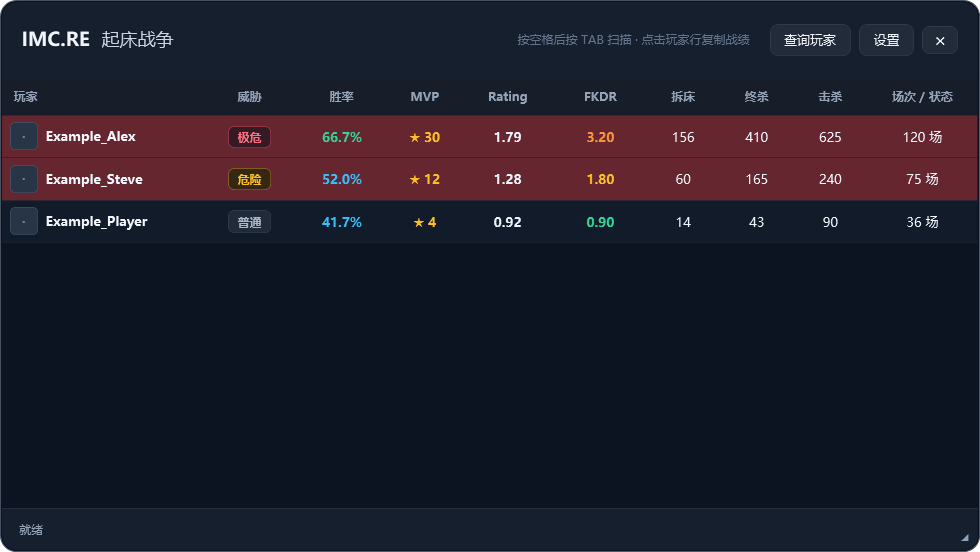
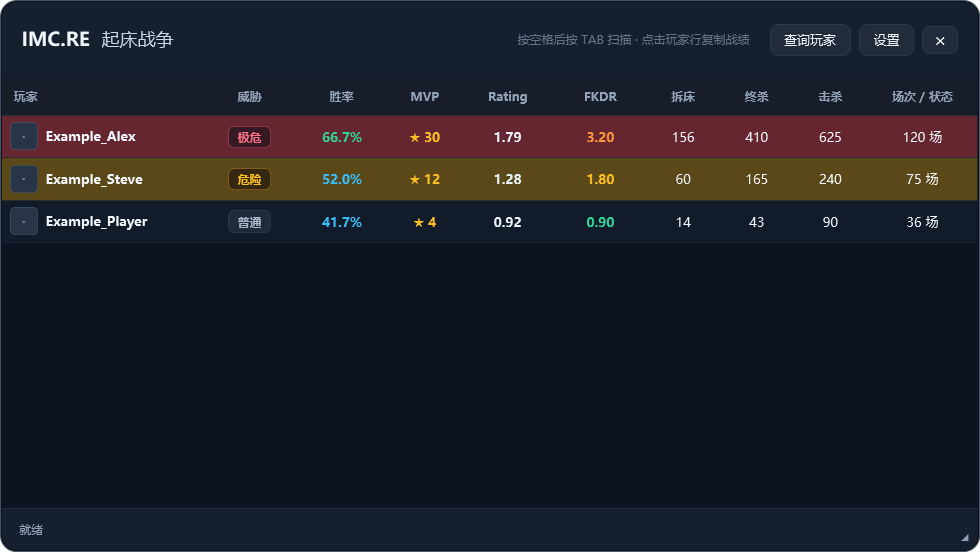
Color player rows by rating tier

Changed region(s): [[0.0, 0.2772, 1.0, 0.3696]]

diff --git a/MainWindow.xaml b/MainWindow.xaml
@@ -13,7 +13,7 @@
     <SolidColorBrush x:Key="Dim" Color="#64748B"/><SolidColorBrush x:Key="Green" Color="#34D399"/>
     <SolidColorBrush x:Key="Blue" Color="#38BDF8"/><SolidColorBrush x:Key="Amber" Color="#FBBF24"/>
     <Style TargetType="Button"><Setter Property="Foreground" Value="{StaticResource Text}"/><Setter Property="Background" Value="#222B3A"/><Setter Property="BorderBrush" Value="#344155"/><Setter Property="BorderThickness" Value="1"/><Setter Property="Padding" Value="14,7"/><Setter Property="FontSize" Value="13"/><Setter Property="Cursor" Value="Hand"/><Setter Property="Template"><Setter.Value><ControlTemplate TargetType="Button"><Border x:Name="b" Background="{TemplateBinding Background}" BorderBrush="{TemplateBinding BorderBrush}" BorderThickness="{TemplateBinding BorderThickness}" CornerRadius="8" Padding="{TemplateBinding Padding}"><ContentPresenter HorizontalAlignment="Center" VerticalAlignment="Center"/></Border><ControlTemplate.Triggers><Trigger Property="IsMouseOver" Value="True"><Setter TargetName="b" Property="Background" Value="#2A3648"/><Setter TargetName="b" Property="BorderBrush" Value="#50627B"/></Trigger><Trigger Property="IsPressed" Value="True"><Setter TargetName="b" Property="Opacity" Value=".8"/></Trigger></ControlTemplate.Triggers></ControlTemplate></Setter.Value></Setter></Style>
-    <Style TargetType="DataGrid"><Setter Property="Background" Value="Transparent"/><Setter Property="Foreground" Value="{StaticResource Text}"/><Setter Property="BorderThickness" Value="0"/><Setter Property="HeadersVisibility" Value="Column"/><Setter Property="GridLinesVisibility" Value="None"/><Setter Property="RowHeight" Value="42"/><Setter Property="ColumnHeaderHeight" Value="38"/><Setter Property="CanUserAddRows" Value="False"/><Setter Property="CanUserResizeRows" Value="False"/><Setter Property="SelectionUnit" Value="FullRow"/><Setter Property="SelectionMode" Value="Single"/><Setter Property="AlternationCount" Value="2"/><Setter Property="RowBackground" Value="#111B29"/><Setter Property="AlternatingRowBackground" Value="#0E1825"/><Setter Property="ColumnHeaderStyle"><Setter.Value><Style TargetType="DataGridColumnHeader"><Setter Property="Background" Value="#171D29"/><Setter Property="Foreground" Value="#94A3B8"/><Setter Property="FontWeight" Value="SemiBold"/><Setter Property="FontSize" Value="12"/><Setter Property="Padding" Value="4,0"/><Setter Property="HorizontalContentAlignment" Value="Center"/><Setter Property="VerticalContentAlignment" Value="Center"/><Setter Property="BorderThickness" Value="0,0,0,1"/><Setter Property="BorderBrush" Value="#2B3546"/></Style></Setter.Value></Setter><Setter Property="CellStyle"><Setter.Value><Style TargetType="DataGridCell"><Setter Property="BorderThickness" Value="0"/><Setter Property="Padding" Value="4,0"/><Setter Property="HorizontalContentAlignment" Value="Stretch"/><Setter Property="VerticalContentAlignment" Value="Center"/><Setter Property="FocusVisualStyle" Value="{x:Null}"/><Style.Triggers><Trigger Property="IsSelected" Value="True"><Setter Property="Background" Value="#253348"/><Setter Property="Foreground" Value="{StaticResource Text}"/></Trigger><MultiDataTrigger><MultiDataTrigger.Conditions><Condition Binding="{Binding IsSelected, RelativeSource={RelativeSource Self}}" Value="True"/><Condition Binding="{Binding IsHighRating}" Value="True"/></MultiDataTrigger.Conditions><Setter Property="Background" Value="#87343D"/></MultiDataTrigger></Style.Triggers></Style></Setter.Value></Setter><Setter Property="RowStyle"><Setter.Value><Style TargetType="DataGridRow"><Setter Property="Foreground" Value="{StaticResource Text}"/><Setter Property="BorderThickness" Value="0,0,0,1"/><Setter Property="BorderBrush" Value="#202938"/><Setter Property="Cursor" Value="Hand"/><Setter Property="ToolTip" Value="{Binding Error}"/><Style.Triggers><Trigger Property="IsMouseOver" Value="True"><Setter Property="Background" Value="#1D3041"/></Trigger><DataTrigger Binding="{Binding IsHighRating}" Value="True"><Setter Property="Background" Value="#652630"/></DataTrigger></Style.Triggers></Style></Setter.Value></Setter></Style>
+    <Style TargetType="DataGrid"><Setter Property="Background" Value="Transparent"/><Setter Property="Foreground" Value="{StaticResource Text}"/><Setter Property="BorderThickness" Value="0"/><Setter Property="HeadersVisibility" Value="Column"/><Setter Property="GridLinesVisibility" Value="None"/><Setter Property="RowHeight" Value="42"/><Setter Property="ColumnHeaderHeight" Value="38"/><Setter Property="CanUserAddRows" Value="False"/><Setter Property="CanUserResizeRows" Value="False"/><Setter Property="SelectionUnit" Value="FullRow"/><Setter Property="SelectionMode" Value="Single"/><Setter Property="AlternationCount" Value="2"/><Setter Property="RowBackground" Value="#111B29"/><Setter Property="AlternatingRowBackground" Value="#0E1825"/><Setter Property="ColumnHeaderStyle"><Setter.Value><Style TargetType="DataGridColumnHeader"><Setter Property="Background" Value="#171D29"/><Setter Property="Foreground" Value="#94A3B8"/><Setter Property="FontWeight" Value="SemiBold"/><Setter Property="FontSize" Value="12"/><Setter Property="Padding" Value="4,0"/><Setter Property="HorizontalContentAlignment" Value="Center"/><Setter Property="VerticalContentAlignment" Value="Center"/><Setter Property="BorderThickness" Value="0,0,0,1"/><Setter Property="BorderBrush" Value="#2B3546"/></Style></Setter.Value></Setter><Setter Property="CellStyle"><Setter.Value><Style TargetType="DataGridCell"><Setter Property="BorderThickness" Value="0"/><Setter Property="Padding" Value="4,0"/><Setter Property="HorizontalContentAlignment" Value="Stretch"/><Setter Property="VerticalContentAlignment" Value="Center"/><Setter Property="FocusVisualStyle" Value="{x:Null}"/><Style.Triggers><Trigger Property="IsSelected" Value="True"><Setter Property="Background" Value="#253348"/><Setter Property="Foreground" Value="{StaticResource Text}"/></Trigger><MultiDataTrigger><MultiDataTrigger.Conditions><Condition Binding="{Binding IsSelected, RelativeSource={RelativeSource Self}}" Value="True"/><Condition Binding="{Binding IsHighRating}" Value="True"/></MultiDataTrigger.Conditions><Setter Property="Background" Value="#87343D"/></MultiDataTrigger><MultiDataTrigger><MultiDataTrigger.Conditions><Condition Binding="{Binding IsSelected, RelativeSource={RelativeSource Self}}" Value="True"/><Condition Binding="{Binding IsWarningRating}" Value="True"/></MultiDataTrigger.Conditions><Setter Property="Background" Value="#806321"/></MultiDataTrigger></Style.Triggers></Style></Setter.Value></Setter><Setter Property="RowStyle"><Setter.Value><Style TargetType="DataGridRow"><Setter Property="Foreground" Value="{StaticResource Text}"/><Setter Property="BorderThickness" Value="0,0,0,1"/><Setter Property="BorderBrush" Value="#202938"/><Setter Property="Cursor" Value="Hand"/><Setter Property="ToolTip" Value="{Binding Error}"/><Style.Triggers><Trigger Property="IsMouseOver" Value="True"><Setter Property="Background" Value="#1D3041"/></Trigger><DataTrigger Binding="{Binding IsHighRating}" Value="True"><Setter Property="Background" Value="#652630"/></DataTrigger><DataTrigger Binding="{Binding IsWarningRating}" Value="True"><Setter Property="Background" Value="#5B4819"/></DataTrigger></Style.Triggers></Style></Setter.Value></Setter></Style>
   </Window.Resources>
   <Viewbox Stretch="Fill"><Border Width="980" Height="552" Background="{StaticResource Bg}" BorderBrush="#354155" BorderThickness="1" CornerRadius="16" Padding="1">
     <Grid x:Name="Root" ClipToBounds="True">

diff --git a/PlayerStats.cs b/PlayerStats.cs
@@ -46,8 +46,10 @@ public sealed class PlayerRow : INotifyPropertyChanged
     public string State { get => _state; set { _state = value; Changed(); Changed(nameof(MatchesLabel)); } }
     public string Error { get => _error; set { _error = value; Changed(); Changed(nameof(MatchesLabel)); } }
     public double? OverallRating => State != "ok" ? null : GameMode == "counterember" ? Rating : BedwarsRatingCalculator.Calculate(Matches, WinRate, Fkdr, AvgBeds);
-    public bool IsHighRating => OverallRating is double rating && Math.Round(rating, 2, MidpointRounding.ToEven) > 1.0;
-    public string ThreatLabel => OverallRating is not double value ? "—" : value >= 1.35 ? "极危" : value >= 1.12 ? "危险" : "普通";
+    double? DisplayedRating => OverallRating is double rating && double.IsFinite(rating) ? Math.Round(rating, 2, MidpointRounding.ToEven) : null;
+    public bool IsHighRating => DisplayedRating >= 1.35;
+    public bool IsWarningRating => DisplayedRating >= 1.12 && DisplayedRating < 1.35;
+    public string ThreatLabel => DisplayedRating is null ? "—" : IsHighRating ? "极危" : IsWarningRating ? "危险" : "普通";
     public string WinRateLabel => State == "ok" ? WinRate.ToString("P1") : "—"; public string FkdrLabel => State == "ok" ? Fkdr.ToString("F2") : "—";
     public string WinRateColor => State != "ok" ? "#64748B" : WinRate >= .60 ? "#34D399" : WinRate >= .40 ? "#38BDF8" : "#A8B6C9";
     public string FkdrColor => State != "ok" ? "#64748B" : Fkdr >= 4 ? "#FB7185" : Fkdr >= 2.5 ? "#FB923C" : Fkdr >= 1.5 ? "#FBBF24" : Fkdr >= .8 ? "#34D399" : "#A8B6C9";
@@ -58,7 +60,7 @@ public sealed class PlayerRow : INotifyPropertyChanged
     public string MVPsLabel => State == "ok" ? (MVPs > 0 ? $"★ {MVPs}" : "0") : "—"; public string BedsLabel => State == "ok" ? BedsBroken.ToString() : "—"; public string FinalsLabel => State == "ok" ? FinalKills.ToString() : "—"; public string KillsLabel => State == "ok" ? Kills.ToString() : "—";
     public string MatchesLabel => State == "ok" ? $"{Matches} 场" : State == "loading" ? "查询中…" : State == "unregistered" ? "无记录" : "查询失败";
     public void CopyFrom(PlayerRow x) { Username=x.Username; GameMode=x.GameMode; Matches=x.Matches; Wins=x.Wins; MVPs=x.MVPs; BedsBroken=x.BedsBroken; FinalKills=x.FinalKills; Kills=x.Kills; WinRate=x.WinRate; Fkdr=x.Fkdr; AvgBeds=x.AvgBeds; KD=x.KD; Rating=x.Rating; Adr=x.Adr; HsRate=x.HsRate; Error=x.Error; State=x.State; Changed(string.Empty); }
-    void Changed(string? name = null) { if (name == null) return; PropertyChanged?.Invoke(this, new PropertyChangedEventArgs(name)); foreach (var p in new[] { nameof(OverallRating), nameof(IsHighRating), nameof(RatingLabel), nameof(RatingInfo), nameof(ThreatLabel), nameof(WinRateLabel), nameof(FkdrLabel), nameof(MatchesLabel), nameof(MVPsLabel), nameof(BedsLabel), nameof(FinalsLabel), nameof(KillsLabel) }) PropertyChanged?.Invoke(this, new PropertyChangedEventArgs(p)); }
+    void Changed(string? name = null) { if (name == null) return; PropertyChanged?.Invoke(this, new PropertyChangedEventArgs(name)); foreach (var p in new[] { nameof(OverallRating), nameof(IsHighRating), nameof(IsWarningRating), nameof(RatingLabel), nameof(RatingInfo), nameof(ThreatLabel), nameof(WinRateLabel), nameof(FkdrLabel), nameof(MatchesLabel), nameof(MVPsLabel), nameof(BedsLabel), nameof(FinalsLabel), nameof(KillsLabel) }) PropertyChanged?.Invoke(this, new PropertyChangedEventArgs(p)); }
 }
 
 public sealed class ApiResponse { public ApiSummary? Summary { get; set; } }

diff --git a/StatsCardRenderer.cs b/StatsCardRenderer.cs
@@ -33,11 +33,11 @@ internal static class StatsCardRenderer
             else Text(dc, "?", 91, 60, 50, "#BACBD9", true);
             Text(dc, "IMC.RE  /  " + (player.GameMode == "counterember" ? "COUNTEREMBER" : "BEDWARS"), 184, 47, 19, "#70D9C1", true);
             Text(dc, player.Username, 182, 76, 39, "#FFFFFF", true, 700);
-            if (player.GameMode == "bedwars") Text(dc, "估算 Rating " + player.RatingLabel + (player.Matches < 10 ? "  ·  场次较少" : ""), 184, 131, 15, player.IsHighRating ? "#FF8790" : "#B7C9D6", false, 600);
+            if (player.GameMode == "bedwars") Text(dc, "估算 Rating " + player.RatingLabel + (player.Matches < 10 ? "  ·  场次较少" : ""), 184, 131, 15, player.IsHighRating ? "#FF8790" : player.IsWarningRating ? "#FFD277" : "#B7C9D6", false, 600);
             Text(dc, "PLAYER STATS", 906, 91, 20, "#B7C9D6", true, 230);
 
             var stats = player.GameMode == "counterember"
-                ? new (string Label, string Value, string Color)[] { ("胜率", player.WinRate.ToString("P1"), "#62E0AE"), ("胜场", player.Wins.ToString(), "#E7F2FA"), ("Rating", player.Rating.ToString("F2"), player.IsHighRating ? "#FF8790" : "#E7F2FA"), ("K/D", player.KD.ToString("F2"), "#FF8C9C"), ("ADR", player.Adr.ToString("F1"), "#71D0FF"), ("爆头率", player.HsRate.ToString("P1"), "#FFB97B"), ("击杀", player.Kills.ToString(), "#E7F2FA"), ("比赛场次", player.Matches.ToString(), "#E7F2FA") }
+                ? new (string Label, string Value, string Color)[] { ("胜率", player.WinRate.ToString("P1"), "#62E0AE"), ("胜场", player.Wins.ToString(), "#E7F2FA"), ("Rating", player.Rating.ToString("F2"), player.IsHighRating ? "#FF8790" : player.IsWarningRating ? "#FFD277" : "#E7F2FA"), ("K/D", player.KD.ToString("F2"), "#FF8C9C"), ("ADR", player.Adr.ToString("F1"), "#71D0FF"), ("爆头率", player.HsRate.ToString("P1"), "#FFB97B"), ("击杀", player.Kills.ToString(), "#E7F2FA"), ("比赛场次", player.Matches.ToString(), "#E7F2FA") }
                 : new (string Label, string Value, string Color)[] { ("胜率", player.WinRate.ToString("P1"), "#62E0AE"), ("胜场", player.Wins.ToString(), "#E7F2FA"), ("FKDR", player.Fkdr.ToString("F2"), "#FF8C9C"), ("MVP", player.MVPs.ToString(), "#FFD277"), ("拆床", player.BedsBroken.ToString(), "#71D0FF"), ("终杀", player.FinalKills.ToString(), "#FFB97B"), ("击杀", player.Kills.ToString(), "#E7F2FA"), ("比赛场次", player.Matches.ToString(), "#E7F2FA") };
             for (int i = 0; i < stats.Length; i++)
             {

diff --git a/tests/Overlay.Checks/Program.cs b/tests/Overlay.Checks/Program.cs
@@ -69,9 +69,16 @@ internal static class Program
         var b = new PlayerRow { State = "ok", Matches = 20, WinRate = .5, Fkdr = 1, AvgBeds = .5, BedsBroken = 1000 };
         Check(a.OverallRating == b.OverallRating, "total beds must not inflate rating");
         Check(new PlayerRow { State = "ok", GameMode = "counterember", Rating = 1.77 }.OverallRating == 1.77, "CE rating must stay official");
-        Check(!new PlayerRow { State = "ok", GameMode = "counterember", Rating = 1.0 }.IsHighRating, "rating 1.00 must not be highlighted");
-        Check(new PlayerRow { State = "ok", GameMode = "counterember", Rating = 1.01 }.IsHighRating, "rating above 1.00 must be highlighted");
-        Check(!new PlayerRow { State = "ok", GameMode = "counterember", Rating = 1.004 }.IsHighRating, "a rating displayed as 1.00 must not be highlighted");
+        var ordinary = new PlayerRow { State = "ok", GameMode = "counterember", Rating = 1.11 };
+        var warning = new PlayerRow { State = "ok", GameMode = "counterember", Rating = 1.12 };
+        var high = new PlayerRow { State = "ok", GameMode = "counterember", Rating = 1.35 };
+        var rounded = new PlayerRow { State = "ok", GameMode = "counterember", Rating = 1.346 };
+        var roundedDown = new PlayerRow { State = "ok", GameMode = "counterember", Rating = 1.344 };
+        Check(!ordinary.IsHighRating && !ordinary.IsWarningRating && ordinary.ThreatLabel == "普通", "1.11 must be ordinary");
+        Check(!warning.IsHighRating && warning.IsWarningRating && warning.ThreatLabel == "危险", "1.12 must be warning");
+        Check(high.IsHighRating && !high.IsWarningRating && high.ThreatLabel == "极危", "1.35 must be high");
+        Check(rounded.RatingLabel == "1.35" && rounded.IsHighRating && rounded.ThreatLabel == "极危", "highlight and label must follow displayed rounding");
+        Check(roundedDown.RatingLabel == "1.34" && roundedDown.IsWarningRating, "1.34 must remain warning");
         Check(!new PlayerRow { State = "loading", GameMode = "counterember", Rating = 3 }.IsHighRating, "loading players must not be highlighted");
         Check(!a.IsHighRating && b.OverallRating == 1.0, "neutral BW rating must not be highlighted");
     }

diff --git a/README.md b/README.md
@@ -41,9 +41,9 @@ $$
 
 其中 `R` 就是最终显示的 Rating。
 
-少于 10 场时数字后显示 `*`，提示样本不足；无对局时不显示评分。威胁标签使用估算值分级：1.35 及以上为「极危」、1.12 至 1.35 以下为「危险」，其他为「普通」。累计拆床数不直接提高评分。
+少于 10 场时数字后显示 `*`，提示样本不足；无对局时不显示评分。威胁标签按显示到小数点后两位的估算值分级：1.35 及以上为「极危」、1.12 至 1.34 为「危险」，其他为「普通」。累计拆床数不直接提高评分。
 
-当显示到小数点后两位的有效 Rating 严格大于 1.00 时，玩家整行会显示红色背景；该规则也适用于 CounterEmber 的官方 Rating。红色仅表示显示数值高于 1.00，不能单独作为实力或威胁判定。
+表格按显示到小数点后两位的有效 Rating 给玩家整行着色：1.35 及以上为红色，1.12 至 1.34 为黄色，低于 1.12 或没有有效评分时保持普通背景。该着色规则同样适用于 CounterEmber 的官方 Rating；跨模式的评分不可直接比较。
 
 评分仅用于快速参考，权重和分级尚未依据服务器玩家数据校准，不能代表真实水平或判定玩家身份。
 
